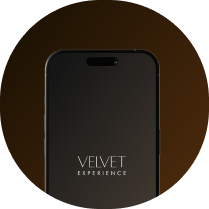
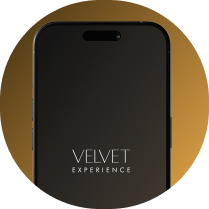
styles

diff --git a/src/Components/Chaffeurs.jsx b/src/Components/Chaffeurs.jsx
@@ -1,20 +1,31 @@
 import React from "react";
 import "../Styles/chauffeurs.css";
 import image from "../assets/Chaffeurs/im.png";
-import { FaShirt, FaToolbox } from "react-icons/fa6";
-import {FaCheckCircle} from "react-icons/fa"
+import video from "../assets/Chaffeurs/video.mp4";
+import { FaCheckCircle, FaMagic  } from "react-icons/fa";
+import {RiShirtLine} from "react-icons/ri"
 
 export default function Chauffeurs() {
   return (
     <div className="chauffeurs">
-      <img src={image} alt="Chauffeur background" className="chauffeurs-bg" />
+      <video
+        className="chauffeurs-bg"
+        autoPlay
+        loop
+        muted
+        playsInline
+      >
+        <source src={video} type="video/mp4" />
+        Your browser does not support the video tag.
+      </video>
+
       <div className="chauffeurs-overlay">
         <div className="chauffeurs-title">Our Chauffeurs</div>
 
         <div className="chauffeurs-cards">
           <div className="chauffeur-card left-card">
-            <FaShirt className="chauffeur-icon" />
-            <h3>Elite Grooming & Attire</h3>
+            <RiShirtLine className="chauffeur-icon" />
+            <h3>Professional Host</h3>
             <p>Tailored suits and gloves — always polished, always professional.</p>
           </div>
 
@@ -25,8 +36,8 @@ export default function Chauffeurs() {
           </div>
 
           <div className="chauffeur-card right-card">
-            <FaToolbox className="chauffeur-icon" />
-            <h3>Discreet Concierge Service</h3>
+            <FaMagic  className="chauffeur-icon" />
+            <h3>VELVET Concierge</h3>
             <p>More than drivers — they anticipate and enhance your journey.</p>
           </div>
         </div>

diff --git a/src/Styles/howToBook.css b/src/Styles/howToBook.css
@@ -3,6 +3,9 @@
   color: white;
   padding: 3.75rem 7.5rem; /* 60px 120px */
   font-family: 'Manrope';
+  display: flex;
+  flex-direction: column;
+  align-items: center;
 }
 
 .how-to-book h2 {
@@ -14,17 +17,16 @@
 .gold-underline {
   width: 6.25rem; /* 100px */
   height: 0.125rem; /* 2px */
-  background: #FFD700;
+  background: linear-gradient(90deg,#F1BE71,#A6662E);
   margin-bottom: 2.5rem; /* 40px */
 }
 
 .toggle-buttons {
   display: inline-flex;
-  border: 0.0625rem solid #FFD700; /* 1px */
+  border: 0.0625rem solid #F1BE71; /* 1px */
   border-radius: 0.25rem; /* 4px */
   overflow: hidden;
-  margin-bottom: 2.5rem; /* 40px */
-  margin-left: 35%;
+  margin-bottom: 2.5rem; 
 }
 
 .toggle-buttons button {
@@ -38,7 +40,7 @@
 }
 
 .toggle-buttons .active {
-  background: linear-gradient(90deg, #FFD700, #FFB700);
+  background: linear-gradient(90deg, rgba(241, 190, 113, 1), rgba(146, 99, 29, 1));
   color: black;
 }
 
@@ -97,9 +99,13 @@
   align-items: center;
   justify-content: center;
 }
-
-.booking-cont {
-  width: 60%;
+.booking-cont{
+  display: flex;
+  flex-direction: column;
+  align-items: center;
+}
+.booking-cont h2, .booking-cont p{
+  padding: 0rem 2.5rem;
 }
 
 .booking-cont div {
@@ -127,7 +133,6 @@
   }
 
   .toggle-buttons {
-    margin-left: 30%;
     justify-content: center;
   }
   .step img, .booking-cont img {

diff --git a/src/Styles/navbar.css b/src/Styles/navbar.css
@@ -11,16 +11,12 @@
   background: rgba(0, 0, 0, 0.3);
   border-radius: 0.625rem; /* 10px */
   padding: 1rem 1.5rem; /* 16px 24px */
-  border: 1px solid rgba(255, 215, 0, 0.2);
+  border: 1px solid #F1BE71;
 }
 
 .logo h1 {
   margin: 0;
-  font-size: 1.75rem; /* 28px */
-  background: linear-gradient(90deg, #FFD700, #FFB700, #FFA500);
-  -webkit-background-clip: text;
-  -webkit-text-fill-color: transparent;
-  background-clip: text;
+  font-size: 1.75rem;
   font-weight: bold;
   letter-spacing: 0.0625rem; /* 1px */
   font-family: 'Alta', sans-serif;
@@ -48,15 +44,15 @@
   font-size: 1rem;
 }
 
-.nav-links a:hover {
-  color: #FFD700;
-}
 
 .book-btn {
   padding: 0.5rem 1rem; /* 8px 16px */
-  border: 1px solid #FFD700;
+  border: 1px solid #F1BE71;
   background: transparent;
-  color: #FFD700;
+  background: linear-gradient(90deg,#F1BE71,#A6662E);
+  -webkit-background-clip: text;
+  -webkit-text-fill-color: transparent;
+  background-clip: text; 
   border-radius: 0.375rem; /* 6px */
   cursor: pointer;
   font-weight: 500;
@@ -64,10 +60,6 @@
   font-size: 1rem;
 }
 
-.book-btn:hover {
-  background: #FFD700;
-  color: black;
-}
 
 /* --------------------------- */
 /* 🎯 Responsive Design */

diff --git a/src/Styles/classApart.css b/src/Styles/classApart.css
@@ -2,12 +2,13 @@
   padding: 60px 120px;
   background-color: black;
   color: white;
-  text-align: left;
+  text-align: center;
   width: 100%;
   box-sizing: border-box;
   display: flex;
   flex-direction: column;
   font-family: 'Manrope';
+  align-items: center;
 }
 
 .class-apart h2 {
@@ -17,9 +18,9 @@
 }
 
 .underline {
-  width: 100px;
+  width: 200px;
   height: 2px;
-  background: #FFD700;
+  background: linear-gradient(90deg,#F1BE71,#A6662E);
   margin-bottom: 40px;
 }
 
@@ -34,7 +35,7 @@
 
 .feature-card {
   background-color: #111;
-  border: 1px solid #FFD700;
+  border: 1px solid #F1BE71;
   padding: 30px;
   width: 25%;
   height: 200px;
@@ -43,7 +44,7 @@
 }
 
 .feature-card .icon {
-  color: #FFD700;
+  color: #F1BE71;
   font-size: 28px;
   margin-bottom: 80px;
 }
@@ -60,19 +61,6 @@
   margin: 0;
 }
 
-/* Asymmetric corner styles */
-.corner-0 {
-  border-top-left-radius: 50px;
-}
-
-.corner-1 {
-  border-bottom-right-radius: 50px;
-}
-
-.corner-2 {
-  border-top-left-radius: 50px;
-  border-bottom-right-radius: 50px;
-}
 
 @media screen and (max-width:900px) {
   .class-apart{

diff --git a/src/App.jsx b/src/App.jsx
@@ -1,8 +1,8 @@
 import './App.css'
-import img from "./assets/velvet.png"
 import CarLogo from './Components/CarLogo.jsx'
 import Chauffeurs from './Components/Chaffeurs.jsx'
 import ClassApart from './Components/ClassApart.jsx'
+import FleetShowcase from './Components/FleetShowcase.jsx'
 import Footer from './Components/Footer.jsx'
 import Hero from './Components/Hero.jsx'
 import HowToBook from './Components/HowToBook.jsx'
@@ -15,18 +15,9 @@ function App() {
       <ClassApart/>
       <HowToBook/>
       <Chauffeurs/>
+      <FleetShowcase/>
       <Footer/>
     </>
-    // <div className='body' style={{ backgroundImage: `url(${img})` }}>
-    //   <p className='logo'>
-    //     <p className='alta'>VELVET</p>
-    //     <p className='exp'>EXPERIENCE</p>
-    //   </p>
-    //   <div className='text'>
-    //     Launching soon
-    //   </div>
-    //   <p className='footer'>Your next Ride, Wrapped in Luxury</p>
-    // </div>
   )
 }
 

diff --git a/src/Styles/footer.css b/src/Styles/footer.css
@@ -22,15 +22,20 @@
   width: 10rem;
   height: 10rem;
   border-radius: 50%;
-  overflow: hidden;
   flex-shrink: 0;
 }
 
-.left-img img,
-.right-img img {
+.left-img img {
   width: 100%;
   height: 100%;
   object-fit: cover;
+}
+.right-img img{
+  width: 180%;
+  height: 100%;
+  object-fit: cover;
+  position: relative;
+  left: -100px;
 }
 
 .footer-text {
@@ -51,7 +56,7 @@
 }
 
 .gold {
-  background: linear-gradient(90deg, #FFD700, #FFB700, #FFA500);
+  background: linear-gradient(90deg, #F1BE71, #A6662E);
   -webkit-background-clip: text;
   -webkit-text-fill-color: transparent;
   background-clip: text;
@@ -72,7 +77,7 @@
 .footer-logo {
   font-size: 1.8rem;
   font-weight: 600;
-  color: #d9a85c;
+  color: linear-gradient(90deg, #F1BE71, #A6662E);
 }
 
 .footer-logo span {

diff --git a/src/Styles/chauffeurs.css b/src/Styles/chauffeurs.css
@@ -33,7 +33,7 @@
   font-size: 2.8rem;
   font-weight: 500;
   padding: 0.625rem 1.875rem;
-  border: 1px solid #fff;
+  border: 1px solid #F1BE71;
   border-radius: 0.375rem;
   background-color: rgba(0, 0, 0, 0.5);
   backdrop-filter: blur(0.25rem);
@@ -57,25 +57,13 @@
   padding: 1.875rem 1.5625rem;
   display: flex;
   flex-direction: column;
-  justify-content: flex-start;
+  justify-content: center;
   gap: 0.9375rem;
   font-size: 0.95rem;
   line-height: 1.4;
   box-sizing: border-box;
   color: white;
   position: relative;
-}
-
-.left-card {
-  border-top-left-radius: 5rem;
-}
-
-.mid-card {
-  border-radius: 0;
-}
-
-.right-card {
-  border-bottom-right-radius: 5rem;
 }
 
 .chauffeur-icon {

diff --git a/src/Components/ClassApart.jsx b/src/Components/ClassApart.jsx
@@ -23,11 +23,12 @@ function ClassApart() {
 
   return (
     <section className="class-apart">
-      <h2>A Class Apart</h2>
+      <h2>Your next CAB ride, wrapped <span className='gradient-text'>LUXURY</span>
+      </h2>
       <div className="underline" />
       <div className="features-container">
         {features.map((feature, index) => (
-          <div className={`feature-card corner-${index}`} key={index}>
+          <div className={`feature-card corner`} key={index}>
             <div className="icon">{feature.icon}</div>
             <h3>{feature.title}</h3>
             <p>{feature.description}</p>

diff --git a/src/Components/HowToBook.jsx b/src/Components/HowToBook.jsx
@@ -3,8 +3,6 @@ import '../Styles/howToBook.css';
 import on1 from "../assets/HowToBook/on1.png";
 import on2 from "../assets/HowToBook/on2.png";
 import of1 from "../assets/HowToBook/of1.png";
-// import onlineImg from '../assets/booking/online.png';
-// import offlineImg from '../assets/booking/offline.png'; // when available
 
 function HowToBook() {
   const [mode, setMode] = useState('online');

diff --git a/src/Components/Navbar.jsx b/src/Components/Navbar.jsx
@@ -6,7 +6,7 @@ export default function Navbar() {
     <div className="navbar-container">
       <div className="navbar">
         <div className="logo">
-          <h1>VELVET</h1>
+          <h1 className='gradient-text'>VELVET</h1>
           <span>EXPERIENCE</span>
         </div>
         <div className="nav-links">

diff --git a/src/Styles/carLogo.css b/src/Styles/carLogo.css
@@ -8,12 +8,12 @@
 
 .car-logo-track {
   display: flex;
-  width: max-content;
-  animation: scrollLeft 20s linear infinite;
   gap: 120px;
-  width: 90%;
+  width: max-content;
+  animation: scrollLeft 30s linear infinite;
   align-items: center;
 }
+
 .car-logo-container {
   width: 100%;
   overflow: hidden;

diff --git a/src/index.css b/src/index.css
@@ -5,3 +5,10 @@
 body{
   background-color: black;
 }
+.gradient-text {
+  background: linear-gradient(90deg,#F1BE71,#A6662E);
+  -webkit-background-clip: text;
+  -webkit-text-fill-color: transparent;
+  background-clip: text; 
+  color: transparent;
+}
